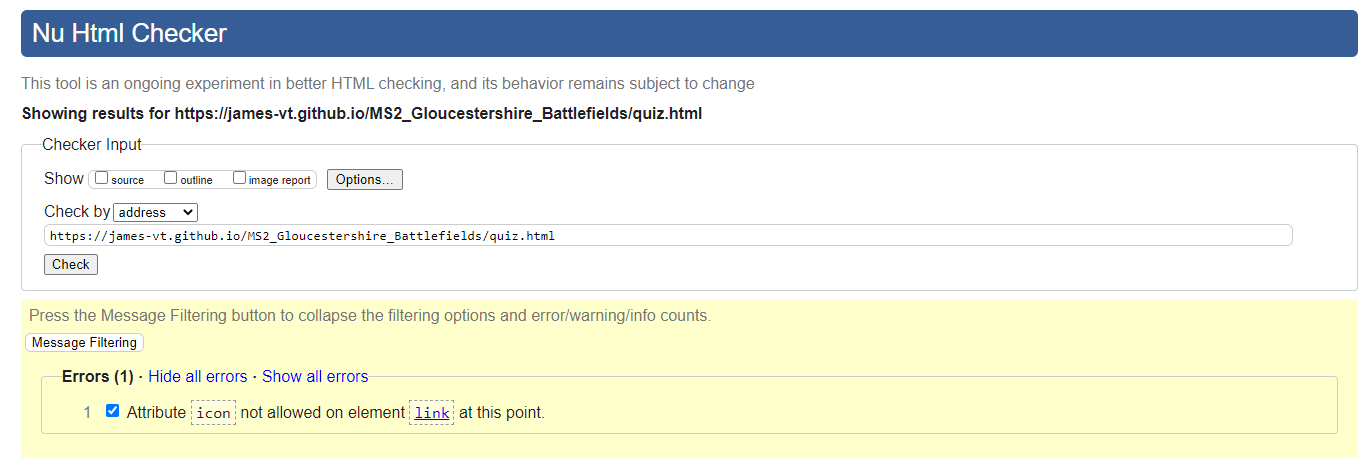
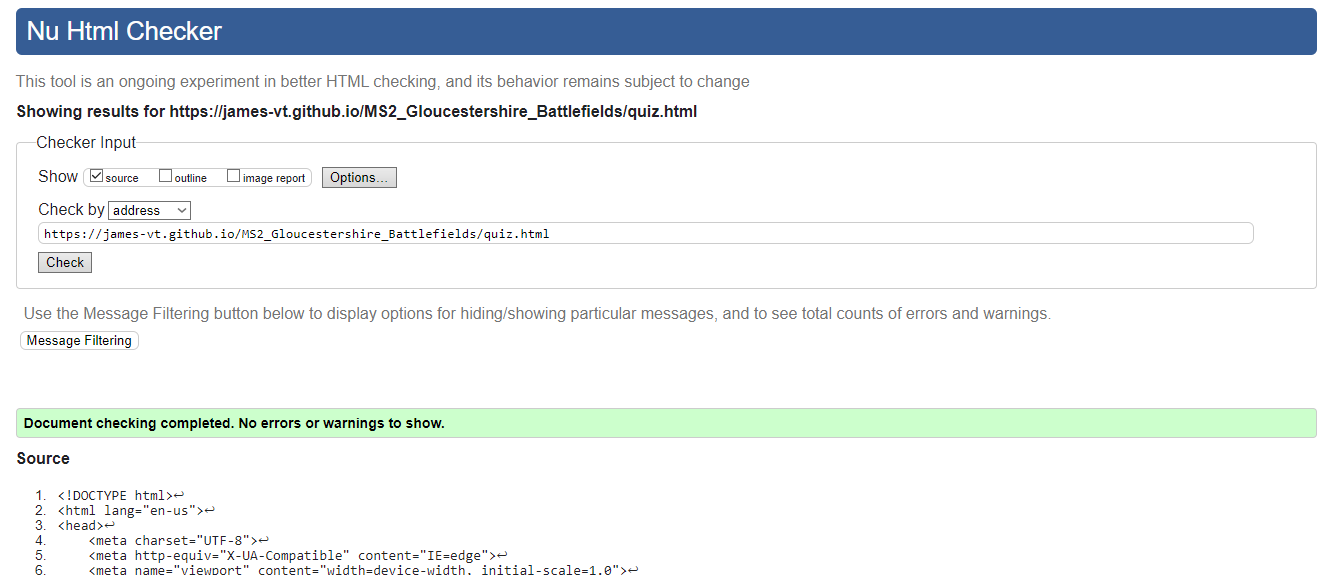
edit: Add new nuhtml images after fixing errors

diff --git a/README.md b/README.md
@@ -98,7 +98,7 @@ As well as the colours pictured above, Venetian Red is used in two places - the 
 
 ### Wireframes
 
-The wireframes developed for this project can be found [here](assets/milestone2wireframes.pdf). They were built using Balsamiq (credit in Technologies section).
+The wireframes developed for this project can be found [here](docs/milestone2wireframes.pdf). They were built using Balsamiq (credit in Technologies section).
 
 # Deployment
  Here I'll explain how to deploy/how I deployed the website to GitHub and how to run it locally. 
